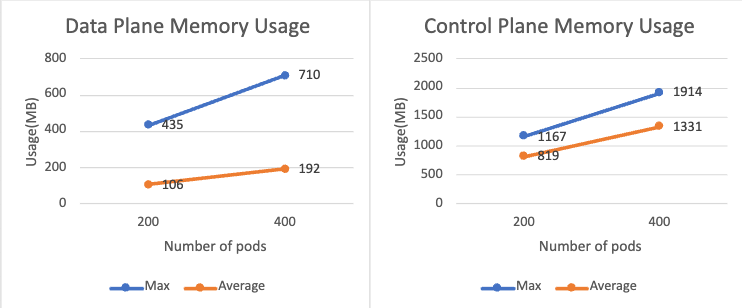
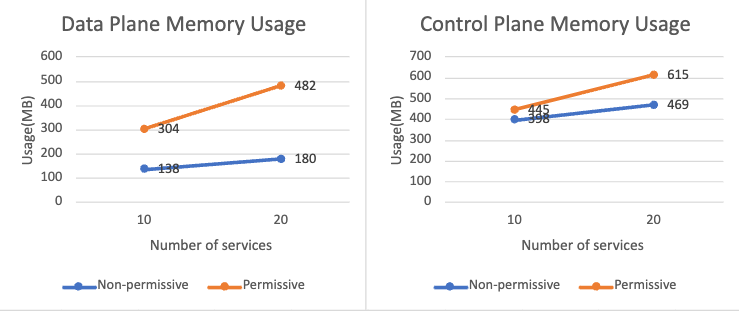
Revise perf scalability doc
Add perf test reuslts of permissive mode and number of connections

diff --git a/content/en/docs/guides/ha_scale/perf-scale.md b/content/en/docs/guides/ha_scale/perf-scale.md
@@ -8,7 +8,7 @@ Open Service Mesh aims to create a high-performance service mesh while providing
 
 ## Testing environment
 
-This test is performed on a Kubernetes cluster provisioned and managed by [Microsoft Azure Kubernetes Service](https://azure.microsoft.com/en-us/services/kubernetes-service/). The cluster has 100 Standard_DS2_v2 nodes (each node has 2 vCPUs and 7GB memory). It is ensured that there is only one OSM controller pod running with default resource quota during the test. OSM is configured in non-permissive traffic mode.
+This test is performed on a Kubernetes cluster provisioned and managed by [Microsoft Azure Kubernetes Service](https://azure.microsoft.com/en-us/services/kubernetes-service/). The cluster has 100 Standard_DS2_v2 nodes (each node has 2 vCPUs and 7GB memory) and 3 Standard_D32s_v3 nodes (32 vCPUs and 128GB memory) reserved for high intensity tests. It is ensured that there is only one OSM controller pod running with default resource quota during the test. OSM is configured in non-permissive traffic mode.
 
 ## Process
 
@@ -18,55 +18,23 @@ The testing mesh contains two types of services. One is a load generator (modifi
   <img src="/docs/images/perf/mesh-topo.png" width="650"/>
 </p>
 
-
 ## Performance
 
 In this test, we focus on the latency overhead and resource consumption added by the OSM sidecar. We currently test the per pod RPS at 100, 500, 1000, 2000 and 4000 respectively.
 
 ### Latency
 
-Below is the request latency at different RPS levels with and without OSM installed. The added latency comes from both the client and server sidecars.
+#### Test 1: Relation with RPS
+
+In our test, regardless of the RPS level, OSM adds around 0.5ms and 5ms overhead to the 50th percentile and the 99th percentile latency respectively. This is caused by the request processing in both the client and server sidecars, for tasks like mTLS authentication, metrics collection etc. Our test setup was with a single client and server. Performance may vary with more complex applications, or with different traffic policies set on the mesh.
+
+#### Test 2: Relation with number of connections
+
+A similar setup to RPS scenario is used to test the relationship between latency and number of connections to the sidecar proxy. In this test, the per pod RPS is set at 2500. As the number of connections increased, the request latency showed a proportional increase while the sidecar memory usage to maintain those open connections only slightly increased. The sidecar consumes around 5MB memory for every 100 connections maintained.
 
 <p align="center">
-  <img src="/docs/images/perf/latency-wo-osm.png" width="650"/>
+  <img src="/docs/images/perf/latency-conns.png" width="650"/>
 </p>
-
-<p align="center">
-  <img src="/docs/images/perf/latency-w-osm.png" width="650"/>
-</p>
-
-<table style="width: 100%; display: table"">
-<thead>
-<tr>
-<th>Per pod RPS</th>
-<th>100</th>
-<th>500</th>
-<th>1000</th>
-<th>2000</th>
-<th>4000</th>
-</tr>
-</thead>
-<tbody>
-<tr>
-<td>P99 latency w/o OSM (ms)</td>
-<td>4.4</td>
-<td>4.3</td>
-<td>4.2</td>
-<td>4.3</td>
-<td>4.5</td>
-</tr>
-<tr>
-<td>P99 latency w/ OSM (ms)</td>
-<td>9.6</td>
-<td>9.4</td>
-<td>9.7</td>
-<td>9.4</td>
-<td>9.8</td>
-</tr>
-</tbody>
-</table>
-
-Regardless of the existence of OSM, the application performs quite similar across different RPS levels tested. OSM adds around 5ms overhead on the 99 percentile latency. Note that our test setup is very simple, with a single client/server relation. Your mileage may vary with more complex applications, or with different traffic policies set on the mesh.
 
 ### Resource Consumption
 
@@ -108,8 +76,39 @@ There is not much difference between pod-rollout time and stable time in terms o
 
 By looking at the collected metrics, in our testing scenarios, resource consumption of data plane sidecars does not change much along with the mesh size. At stable time, the average CPU usage is close to 0 and average memory usage is around 50MB. CPU usage is related to request processing and memory usage is related the size of Envoy configuration stored locally. These two factors do not change with the mesh scale.
 
-It is also worth mentioning that enabling permissive mode will cause data plane to use much more memory, as each sidecar needs to keep the connection configuration between all other services. The chart below shows the sidecar memory usage when 200 and 400 pods are added in a permissive-mode enabled mesh. Compared to the non-permissive mode, the memory usage is more than doubled. Similar things happen on the control plane.
+### Other Scenarios
+
+#### Permissive mode
+
+When permissive mode is enabled in OSM, services are allowed to communicate with any other services in the mesh without additional traffic policies. This is implemented by adding an allow-all wildcard RBAC policy in the inbound listener and all known services as outbound clusters in the Envoy sidecar. Permissive model still enable mTLS authentication between services and requires the services be added inside the mesh. The same load test described above is performed on a service mesh with permissive mode enabled.
+
+On the control plane, the CPU and memory usage both increase compared to non-permissive mode.
+
+On the data plane, there is no obvious difference in terms of CPU usage. However, the memory usage is much higher in permissive mode. This is expected as more outbound cluster information is stored in the sidecar. The chart below shows the sidecar memory usage when 10 and 20 services are added in permissive mesh and non-permissive mesh respectively. Compared to the non-permissive mode, the memory usage is more than doubled.
 
 <p align="center">
   <img src="/docs/images/perf/perm-memory.png" width="650"/>
 </p>
+
+The request latency from load generator to workloads is lower in permissive mode. This reduction is due to the RBAC policy filter path being a single wildcard filter as described above. This filter path is shorter than non-permissive mode and there is less rule matching operations for incoming requests. In our test, we observe the P99 latency drops to around 80% in permissive mode. The more SMI traffic policies added to services in non-permissive mode, the larger request time overhead we expect. Below is the latency comparison between permissive and non-permissive mode, tested with 250 per pod RPS:
+
+<p align="center">
+  <img src="/docs/images/perf/latency-perm-vs-non-perm.png" width="650"/>
+</p>
+
+#### Ingress traffic
+
+In this test, the load generator is deployed outside of the mesh. The requests enter the mesh via [IngressBackend](https://docs.openservicemesh.io/docs/guides/traffic_management/ingress/#ingressbackend-api). Therefore, the request only goes through one Envoy sidecar instead of two.
+
+We compared three scenarios:
+
+* Normal: load generator is inside the mesh. Request goes through 2 sidecars.
+* Ingress: load generator is outside the mesh. Request goes through 1 sidecar.
+* No OSM installed: Request does not go through any sidecar.
+
+The test result shows that the latency of the ingress scenario is significantly lower than the normal scenario. The ingress scenario is roughly equal to the results of the scenario without OSM installed. This result shows that a single Envoy sidecar does add latency overhead. This complies with our expectation.
+
+<p align="center">
+  <img src="/docs/images/perf/latency-ingress.png" width="650"/>
+</p>
+
